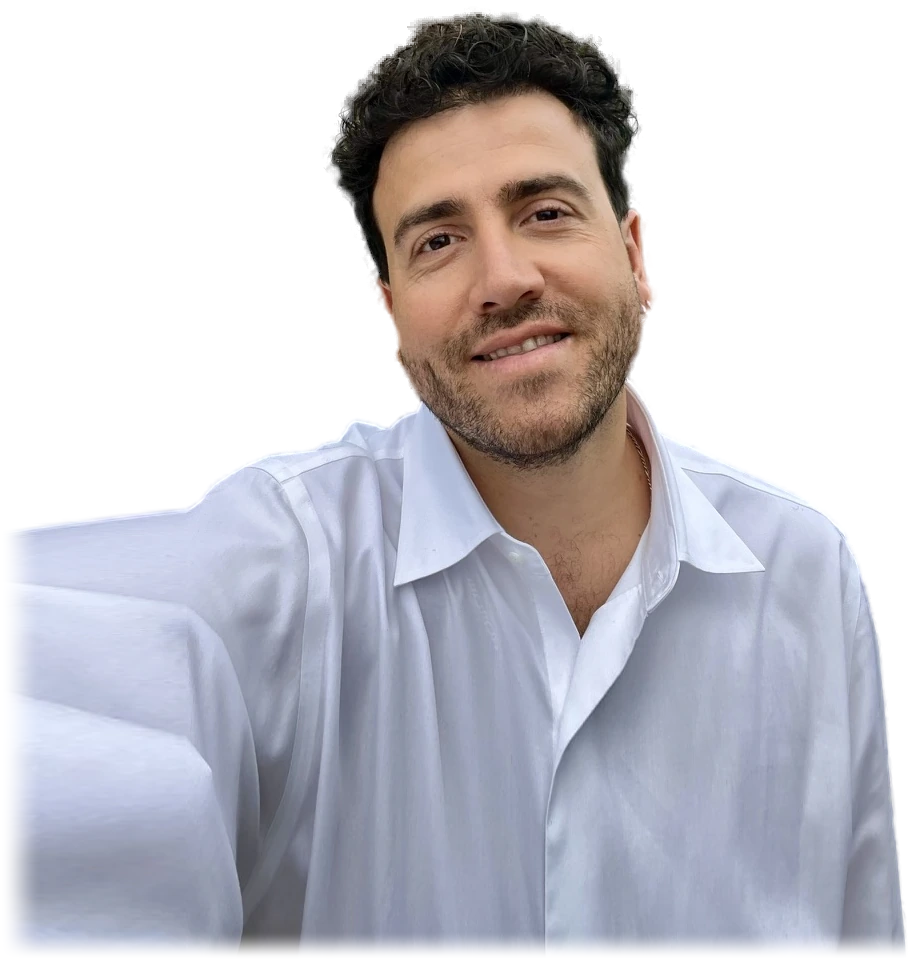
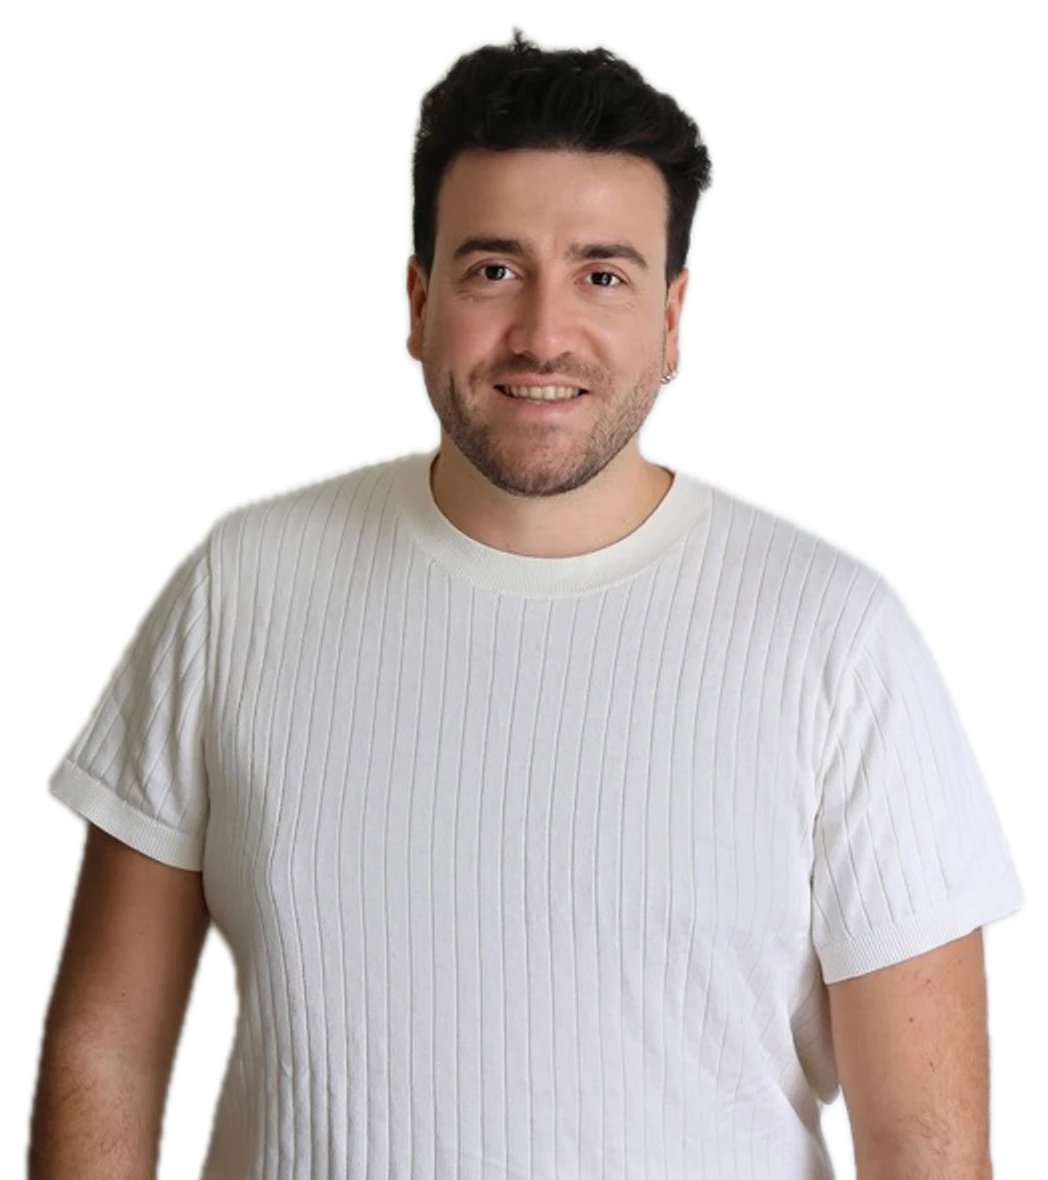
selfie changed

diff --git a/README.md b/README.md
@@ -27,9 +27,9 @@ Copy `src/content/projects/_project-template.md` to `src/content/projects/my-pro
 
 The hero stays pinned for about one screen of scrolling. The portrait stands in the portal on the right, and as you scroll down it is twisted into the vortex and swallowed, after which the portal closes. Scrolling back up reverses it. Phones show the portal above the headline; on very short windows, and with reduced motion, nothing is pinned and the portrait simply stands in the portal.
 
-- The picture is `public/me-cutout.webp`: your photo with the background removed (transparent WebP, 914 x 960). To use another photo, remove its background with any tool that keeps soft edges around the hair and save it over this file. Crop from just above the hair down to the chest or belt. The sides and the bottom should reach past the portal's edge, because the portal's rim cuts the body off there; if the photo ends too early, stretch the shirt a little further.
+- The picture is `public/me-cutout.webp`: your photo with the background removed (transparent WebP, 1048 x 1180). To use another photo, remove its background with any tool that keeps soft edges around the hair and save it over this file. Crop from just above the hair down to the chest or belt. The sides and the bottom should reach past the portal's edge, because the portal's rim cuts the body off there; if the photo ends too early, stretch the shirt a little further.
 - If the new cut-out has other proportions, update `--fig-h`, `--fig-aspect`, `--fig-x` and `--fig-y` at the top of `.hero-stage` in `src/components/Hero.astro` (sizes are in portal radii, y counts upwards from the middle of the portal), and the `width` and `height` of the `<img>` next to it.
-- The previous portrait (dark suit) is kept in `backup/`, with the steps to switch back.
+- The previous portraits (the selfie and the dark suit) are kept in `backup/`, with the steps to switch back.
 - `src/scripts/figure.ts` draws it with a small WebGL shader. Without WebGL the plain image is scrubbed with CSS instead, and without JavaScript it just stands there.
 
 After changing the photo you may want a fresh social preview image: take a screenshot of the hero at 1200 x 630 and save it as `public/og.jpg`.

diff --git a/backup/README.md b/backup/README.md
@@ -1,9 +1,15 @@
-# Previous portrait (backup)
+# Previous portraits (backup)
 
-`me-cutout-suit.webp` is the portrait that was on the site before the selfie: the photo in the dark suit, cut out of its background. Nothing here is published; only `public/` is.
+Earlier hero portraits, each cut out of its background. Nothing here is published; only `public/` is.
 
-To switch back:
+| File | What it is | Settings in `Hero.astro` |
+| --- | --- | --- |
+| `me-cutout-selfie.webp` | The selfie in the white shirt, with the teeth and lip retouch | `--fig-h: 2.329; --fig-x: -0.08; --fig-y: -0.03; --fig-aspect: 0.9521;` and `width="914" height="960"` |
+| `me-cutout-selfie-original.webp` | The same selfie, untouched | Same as above |
+| `me-cutout-suit.webp` | The photo in the dark suit | `--fig-h: 2.25; --fig-x: 0; --fig-y: 0.025; --fig-aspect: 0.6627;` and `width="564" height="851"` |
 
-1. Copy `backup/me-cutout-suit.webp` over `public/me-cutout.webp`.
-2. In `src/components/Hero.astro`, at the top of `.hero-stage`, set `--fig-h: 2.25; --fig-x: 0; --fig-y: 0.025; --fig-aspect: 0.6627;` and give the `<img>` `width="564" height="851"`.
+To switch back to one of them:
+
+1. Copy the file over `public/me-cutout.webp`.
+2. In `src/components/Hero.astro`, set the four `--fig-*` values at the top of `.hero-stage` and the `width` and `height` of the `<img>` to the ones in the table.
 3. Run `npm run build`. Retake `public/og.jpg` if you want the social preview to match.
